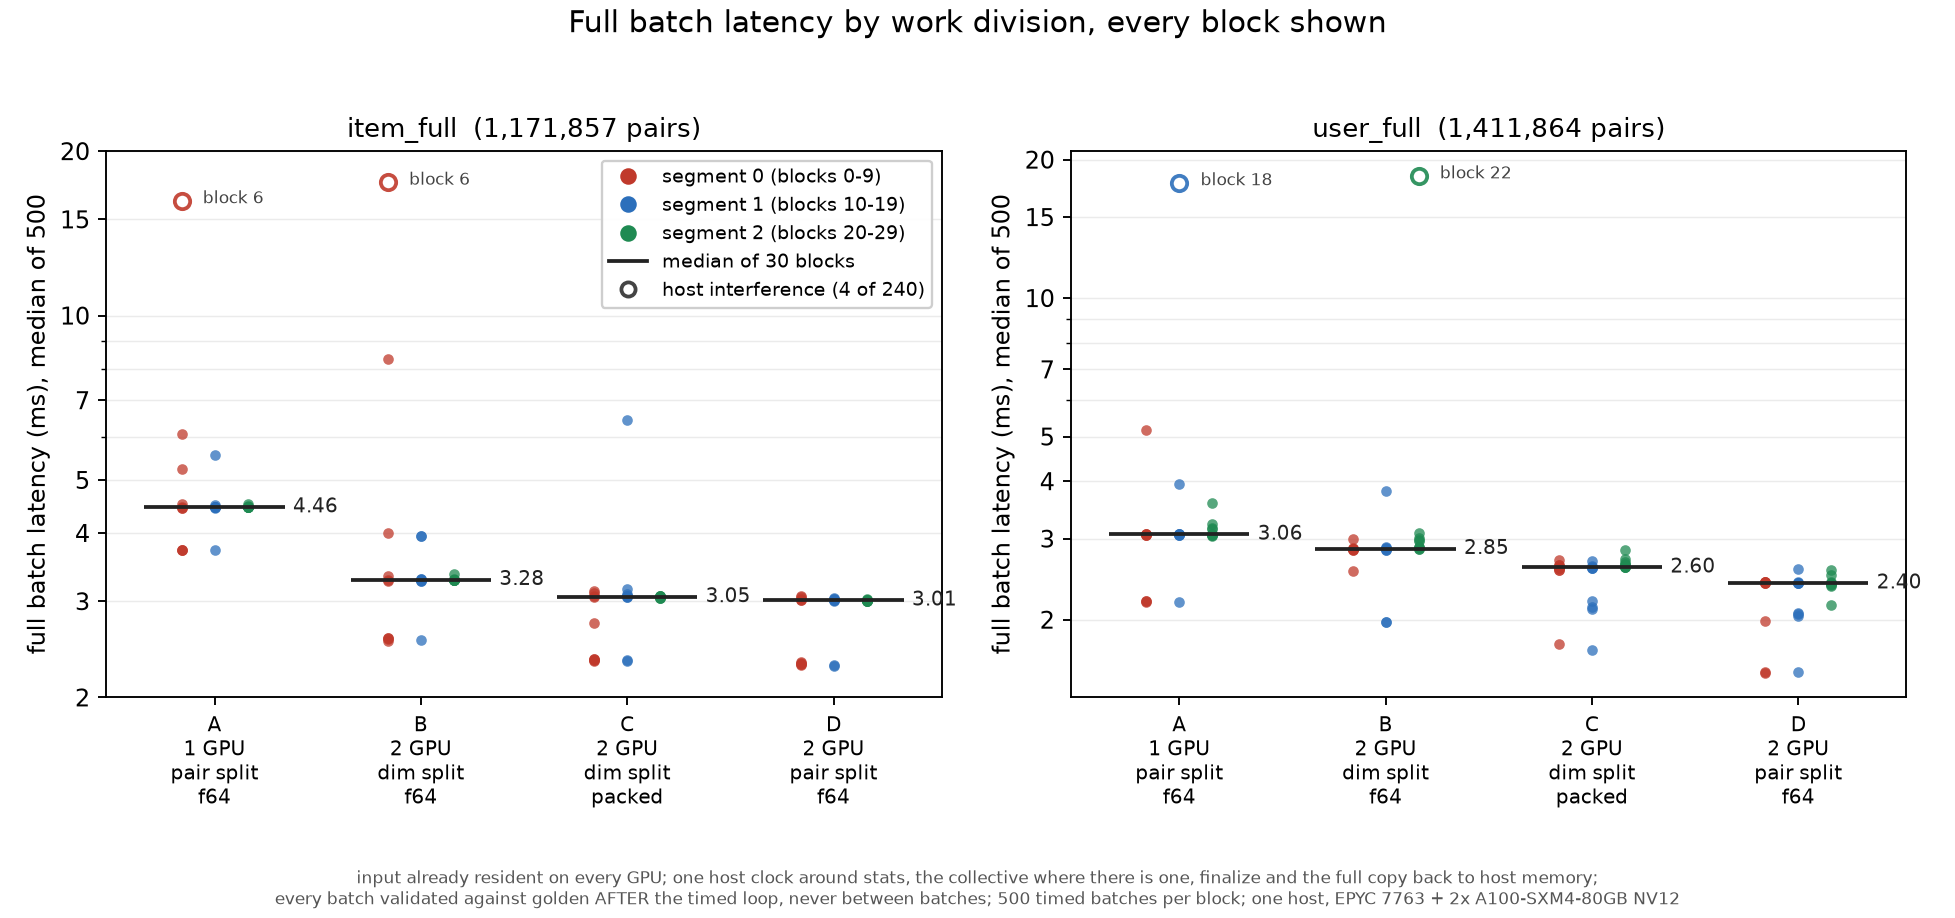
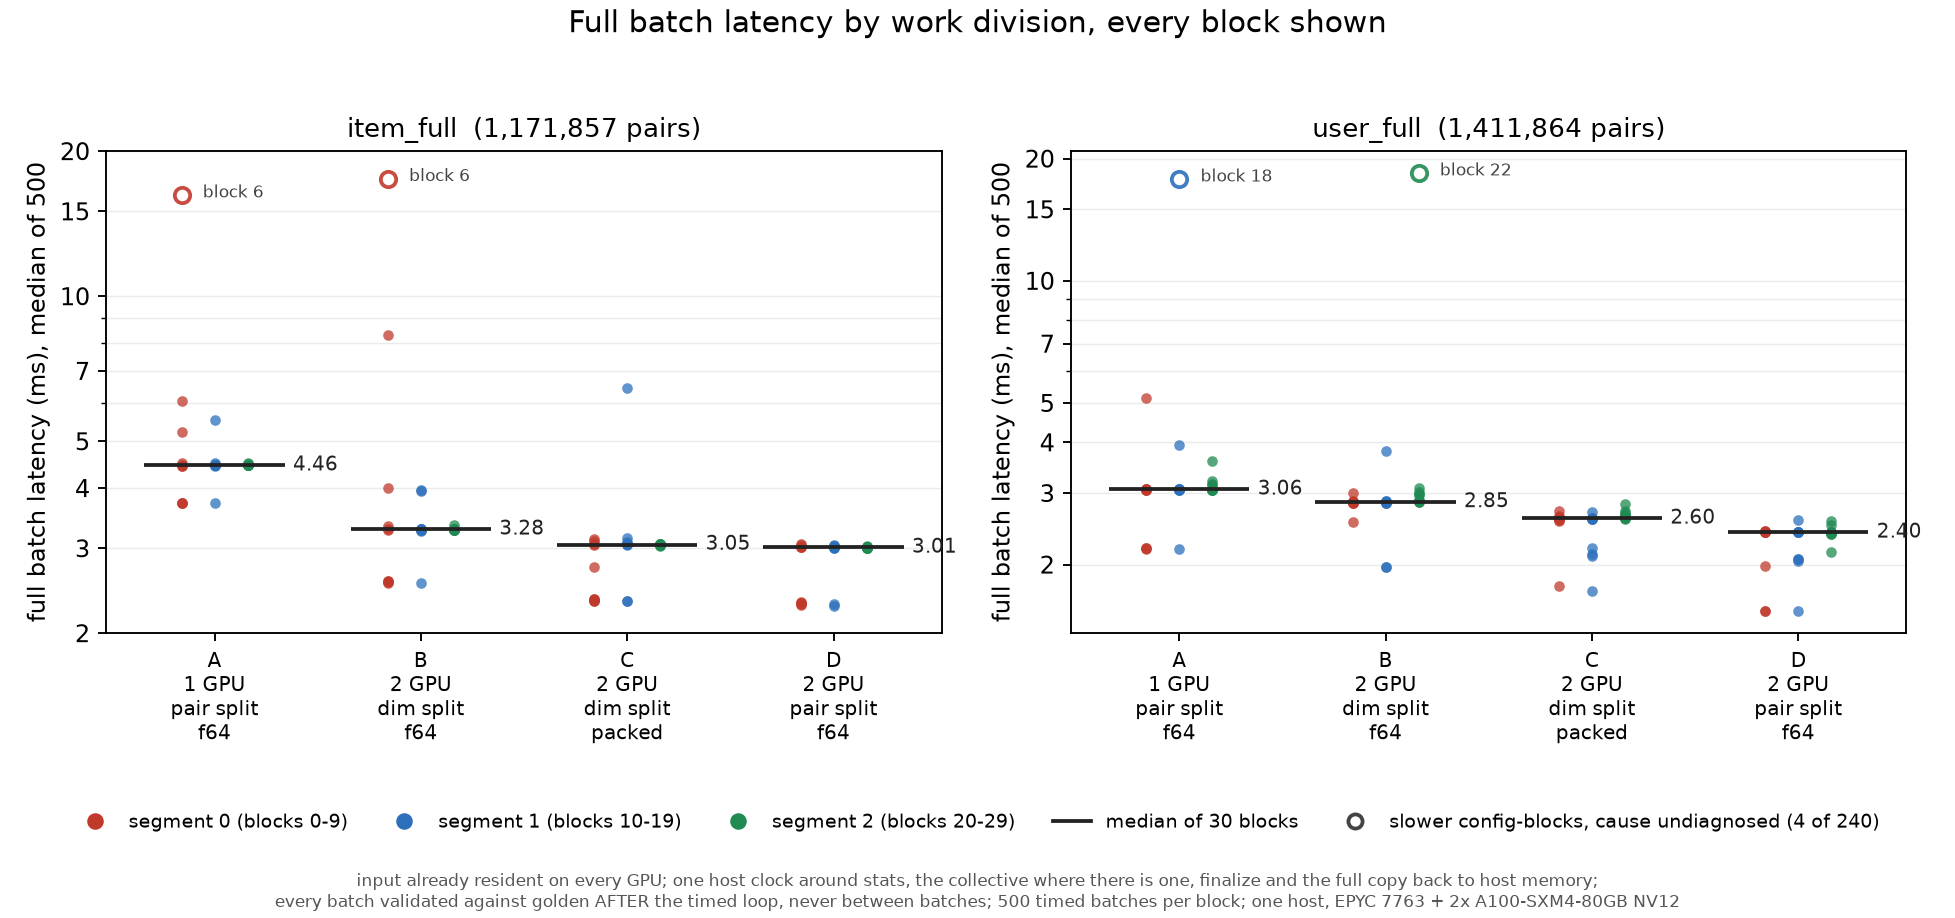
Fix a reproduction hazard, two wrong scopes, and a wrong reason
**The documented reproduction would have plotted somebody else's data.**
The run step wrote to a fresh stamped directory, the analyse step took a
file, and the plot step took no argument at all -- so it fell back to the
2026-09-17 records and would have drawn a figure from them regardless of
what had just been measured. Run, analyse and plot now share one $OUT.

The same block claimed --pilot "writes to its own file". It does not: it
writes wherever --out says, so following that advice overwrites the
formal record with three blocks of explicitly non-formal data. The pilot
now has its own --out in the documented sequence, with the reason.

**--partition and --resident-bench are NCCL-only.** engine/README
attributed them to "both GPU binaries". pearson_engine --backend cuda
rejects them with `unknown arg`, which is verified, not assumed.

**The MPI zero-difference explanation was wrong.** It claimed contiguous
ranges summed in rank order reproduce the serial addition order, so the
roundings match. They do not -- reducing partials regroups the sum, and
floating-point addition is not associative. On random fractional values
of wide magnitude the regrouped sum differs from the serial one in
13,159 of 20,000 trials.

The invariance holds here for a different reason: the six statistics are
exact integers under 1-5 star ratings, worst case 34,075 against 2^53,
so every partial sum is exactly representable and there is no rounding
[…]

diff --git a/engine/bench/make_architecture_figures.py b/engine/bench/make_architecture_figures.py
@@ -104,10 +104,10 @@ def latency_figure(data, out_path):
         ax.set_title(f"{fixture}  ({n_pairs:,} pairs)", fontsize=11)
         ax.set_ylabel("full batch latency (ms), median of 500")
         # Log scale, because four of the 240 config-blocks ran 5-6x slow and a
-        # linear axis spends two thirds of its height on them. They are host
-        # interference, not a property of any configuration -- kept in the
-        # figure and in the analysis, since dropping them only makes every
-        # effect smaller.
+        # linear axis spends two thirds of its height on them. Their cause was
+        # not diagnosed -- nothing external was being recorded at the time --
+        # so they are marked rather than explained, and kept in the figure and
+        # in the analysis, since dropping them only makes every effect smaller.
         ax.set_yscale("log")
         ax.set_yticks([2, 3, 4, 5, 7, 10, 15, 20])
         ax.get_yaxis().set_major_formatter(
@@ -123,12 +123,16 @@ def latency_figure(data, out_path):
     handles.append(plt.Line2D([], [], color="#222", lw=1.6,
                               label="median of 30 blocks"))
     handles.append(plt.Line2D([], [], marker="o", ls="", mfc="none", mew=1.6,
-                              color="#444", label="host interference (4 of 240)"))
-    axes[0].legend(handles=handles, fontsize=8, loc="upper right", framealpha=0.95)
+                              color="#444",
+                              label="slower config-blocks, cause undiagnosed (4 of 240)"))
+    # Below the axes, not inside them: the legend box sat on top of one of the
+    # marked blocks in the left panel.
+    fig.legend(handles=handles, fontsize=8, ncol=5, loc="lower center",
+               bbox_to_anchor=(0.5, 0.075), frameon=False)
     fig.suptitle("Full batch latency by work division, every block shown",
                  fontsize=12.5, y=0.99)
-    fig.text(0.5, 0.015, SCOPE, ha="center", fontsize=7.4, color="#555")
-    fig.tight_layout(rect=[0, 0.085, 1, 0.96])
+    fig.text(0.5, 0.012, SCOPE, ha="center", fontsize=7.4, color="#555")
+    fig.tight_layout(rect=[0, 0.155, 1, 0.96])
     fig.savefig(out_path, dpi=170)
     print(f"wrote {out_path}")
 

diff --git a/engine/README.md b/engine/README.md
@@ -91,9 +91,11 @@ warp-packing analysis in
 The table that used to sit here was measured on a 2026-08-26 laptop against the
 pre-warp-packing default and is superseded on both counts.
 
-**Defaults** are `--group 4 --pair-order source --partition dim` for both GPU
-binaries; `--group`/`--pair-order` since `1abc477`, `--partition` since
-2026-09-17. `--pair-order bylen` is the resident-engine opt-in, and
+**Defaults** are `--group 4 --pair-order source` for both GPU binaries since
+`1abc477`, and `--partition dim` for `pearson_engine_nccl` since 2026-09-17.
+`--partition` and `--resident-bench` exist **only** on `pearson_engine_nccl`;
+the `pearson_engine --backend cuda` entry point rejects them with
+`unknown arg`. `--pair-order bylen` is the resident-engine opt-in, and
 `--plan-metrics on` enables the lane-plan diagnostics, which are off by default
 because they cost far more than the kernel they describe.
 
@@ -105,12 +107,21 @@ which is only valid while the order is the identity.
 batches in-process, reporting `resident_host_complete_ms` — a different timing
 basis from `device_total`, and not comparable to it.
 
-MPI note: contiguous dimension ranges summed in rank order reproduce the
-serial ascending-dim summation order exactly, so the same roundings happen in
-the same sequence and partition invariance should hold bitwise, not merely
-within tolerance. What the gates actually measure is `max_abs_diff = 0.0`,
-which is numeric equality; for doubles that permits exactly one distinct pair
-of bit patterns, +0.0 against -0.0. No bitwise comparison was run.
+MPI note: the gates measure `max_abs_diff = 0.0` across 1/2/4/8 ranks. That
+is an observation on this data, not a general floating-point guarantee, and an
+earlier version of this note got the reason wrong. Splitting a sum into
+contiguous ranges and reducing the partials does **not** reproduce the serial
+addition order — it regroups it, and floating-point addition is not
+associative; on random fractional values of wide magnitude the regrouped sum
+differs from the serial one in about two thirds of trials.
+
+Zero difference holds here because the six statistics are **exact integers**
+under the shipped fixtures' 1-5 star ratings: the worst is 34,075 against
+2^53, so every partial sum is exactly representable and no rounding happens
+for the grouping to affect. Expect the invariance to survive only while that
+is true. `max_abs_diff = 0.0` is also numeric equality rather than a bitwise
+comparison; for doubles it permits exactly one distinct pair of bit patterns,
++0.0 against -0.0.
 
 ## End-to-end RMSE check (2026-08-26)
 

diff --git a/docs/reproduction.md b/docs/reproduction.md
@@ -101,18 +101,32 @@ The work-division matrix is a separate harness, on a different timing basis
 (`resident_host_complete`, which includes the copy back to host):
 
 ```bash
+OUT=results/bench/architecture_formal_$(date +%Y%m%d)
+mkdir -p "$OUT"
+
+# Pilot first. --pilot does NOT choose a separate file: give it its own --out,
+# or it overwrites the formal record with three blocks of non-formal data.
+python3 engine/bench/architecture_ab.py run \
+    --binary engine/build/pearson_engine_nccl --fixture data/fixtures/item_full \
+    --out "$OUT/pilot_item_full.json" --pilot 3 --warmup 20 --repeat 20
+python3 engine/bench/architecture_ab.py analyze "$OUT/pilot_item_full.json"
+
+# Formal matrix, only once the pilot parses and the times are plausible.
 for fx in item_full user_full; do
   python3 engine/bench/architecture_ab.py run \
       --binary engine/build/pearson_engine_nccl --fixture data/fixtures/$fx \
-      --out results/bench/architecture_formal_<stamp>/formal_$fx.json \
+      --out "$OUT/formal_$fx.json" \
       --warmup 50 --repeat 500 --segment-pause 180 --seed 20260917
-  python3 engine/bench/architecture_ab.py analyze <that file>
+  python3 engine/bench/architecture_ab.py analyze "$OUT/formal_$fx.json"
 done
-.venv/bin/python engine/bench/make_architecture_figures.py
+
+# The figure script takes the directory. With no argument it reads the
+# 2026-09-17 records, so a new run would be analysed and then plotted from
+# somebody else's data.
+.venv/bin/python engine/bench/make_architecture_figures.py "$OUT"
 ```
 
-Run `--pilot 3` first: it writes to its own file and is labelled not formal
-data. See [architecture_ab_20260917.md](architecture_ab_20260917.md).
+See [architecture_ab_20260917.md](architecture_ab_20260917.md).
 
 ### 4. End-to-end RMSE (native similarities → Python prediction)
 

diff --git a/docs/pearson_contract.md b/docs/pearson_contract.md
@@ -201,14 +201,36 @@ a tolerance.
 
 ### 9.4 Domain gate
 
-`check_payload_domain()` refuses `i32` and `packed` up front unless
+`check_payload_domain()` refuses, up front, on two levels.
+
+**Every payload, `f64` included:** every rating must be finite. A non-finite
+rating is outside the contract for all backends, and `pearson_finalize`'s
+zero-variance branch can turn an abnormal intermediate into a clean 0.0, so a
+finite output is not evidence of a finite input.
+
+**`i32` and `packed` additionally require:**
 
 1. every rating is a non-negative integer, and
-2. `vmax² · N` fits the field width (2²¹−1 packed, 2³¹−1 for i32).
+2. all three capacity bounds fit the field width `L` (2²¹−1 packed, 2³¹−1 for
+   i32), checked separately rather than through one that is assumed to imply
+   the others:
+
+| bound | covers |
+| --- | --- |
+| `N ≤ L` | `n` |
+| `vmax · N ≤ L` | `Σx`, `Σy` |
+| `vmax² · N ≤ L` | `Σx²`, `Σy²`, `Σxy` |
+
+Only the last was checked until 2026-09-17. For `vmax ≥ 1` it dominates the
+other two, which is why the gap went unnoticed; at `vmax = 0` it collapses to
+`0 ≤ L` and accepts a rating row of any length with `n` unbounded. For integer
+ratings only two can ever fire first — `n` at `vmax = 0`, the second moment
+otherwise — and the `Σx` bound is stated so a reader need not re-derive that
+it is implied.
 
 A silently overflowed field would corrupt the sum while every backend still
 agreed with itself, so this is checked rather than assumed. Fixtures outside
-the domain must use `--payload f64`, which carries no such precondition.
+the domain must use `--payload f64`, which carries no capacity precondition.
 
 ### 9.5 Verification
 

diff --git a/docs/architecture_ab_20260917.md b/docs/architecture_ab_20260917.md
@@ -213,7 +213,11 @@ reason to doubt the results above.
   The reuse runs are **weaker evidence than they look**. Pearson is invariant
   under a uniform positive scaling of all six statistics: multiply
   `(n, Σx, Σy, Σxx, Σyy, Σxy)` by `k` and both numerator and denominator scale
-  by `k²`, leaving the similarity bit-for-bit unchanged. A stale buffer summed
+  by `k²`, so the similarity is **mathematically unchanged**. In floating point
+  the output may come back identical or differ in the last place, since the
+  intermediate roundings are not the same; either way it stays far inside the
+  1e-12 tolerance, and staying inside the tolerance is what defeats the check.
+  A stale buffer summed
   again on the next iteration is exactly that kind of uniform scaling. So the
   20- and 500-batch reuse runs establish that the final similarities are
   correct every iteration; they cannot exclude a proportional inflation of the
